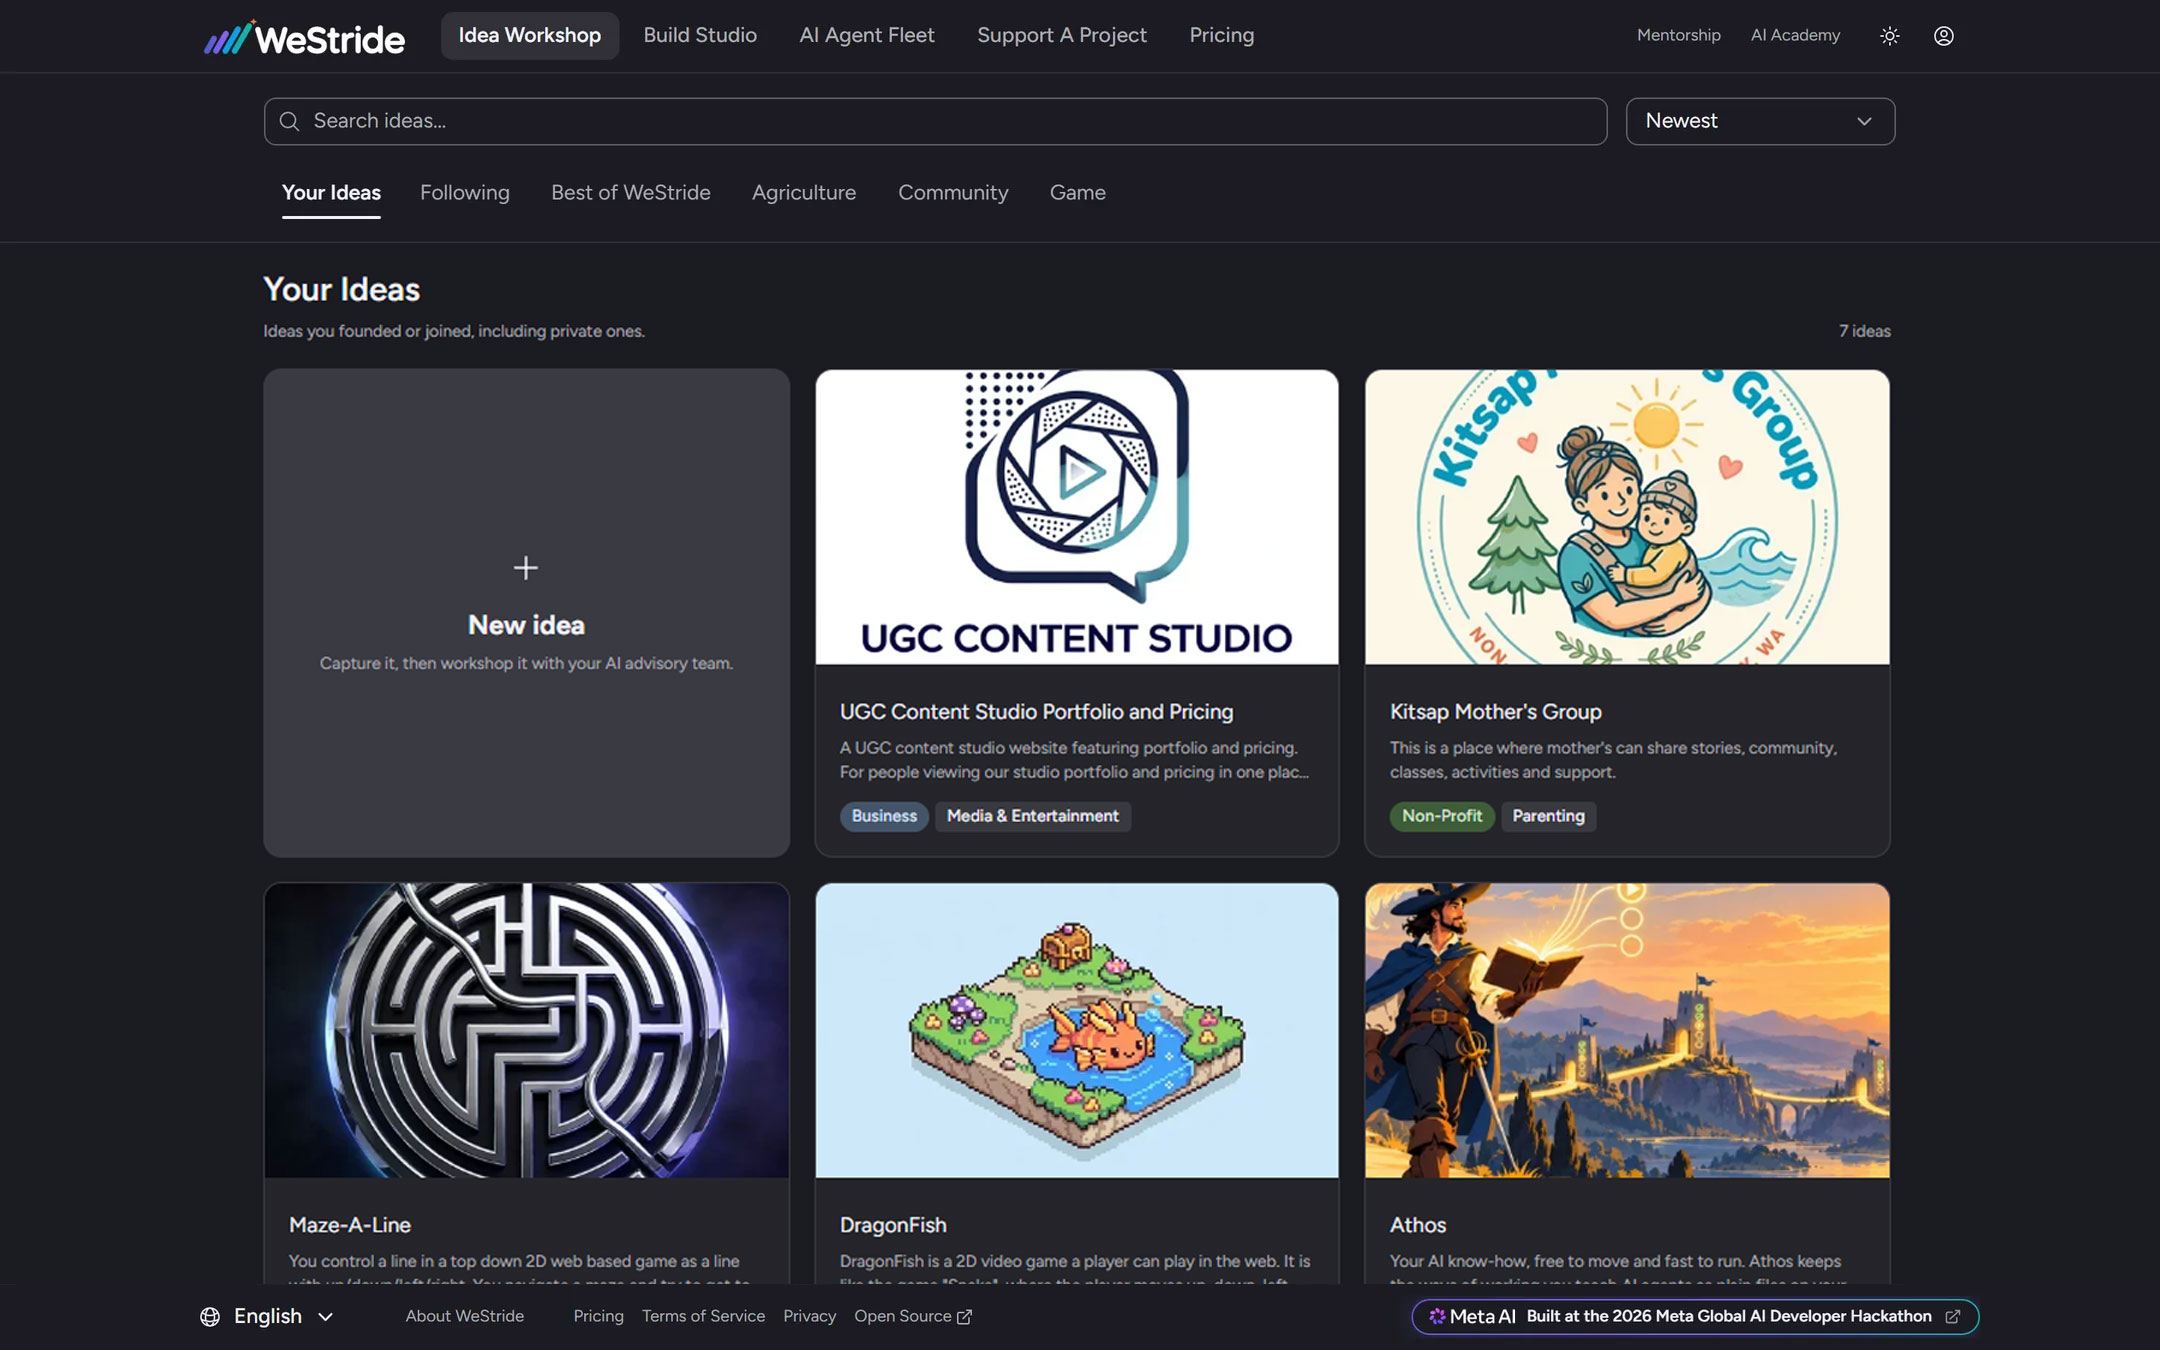
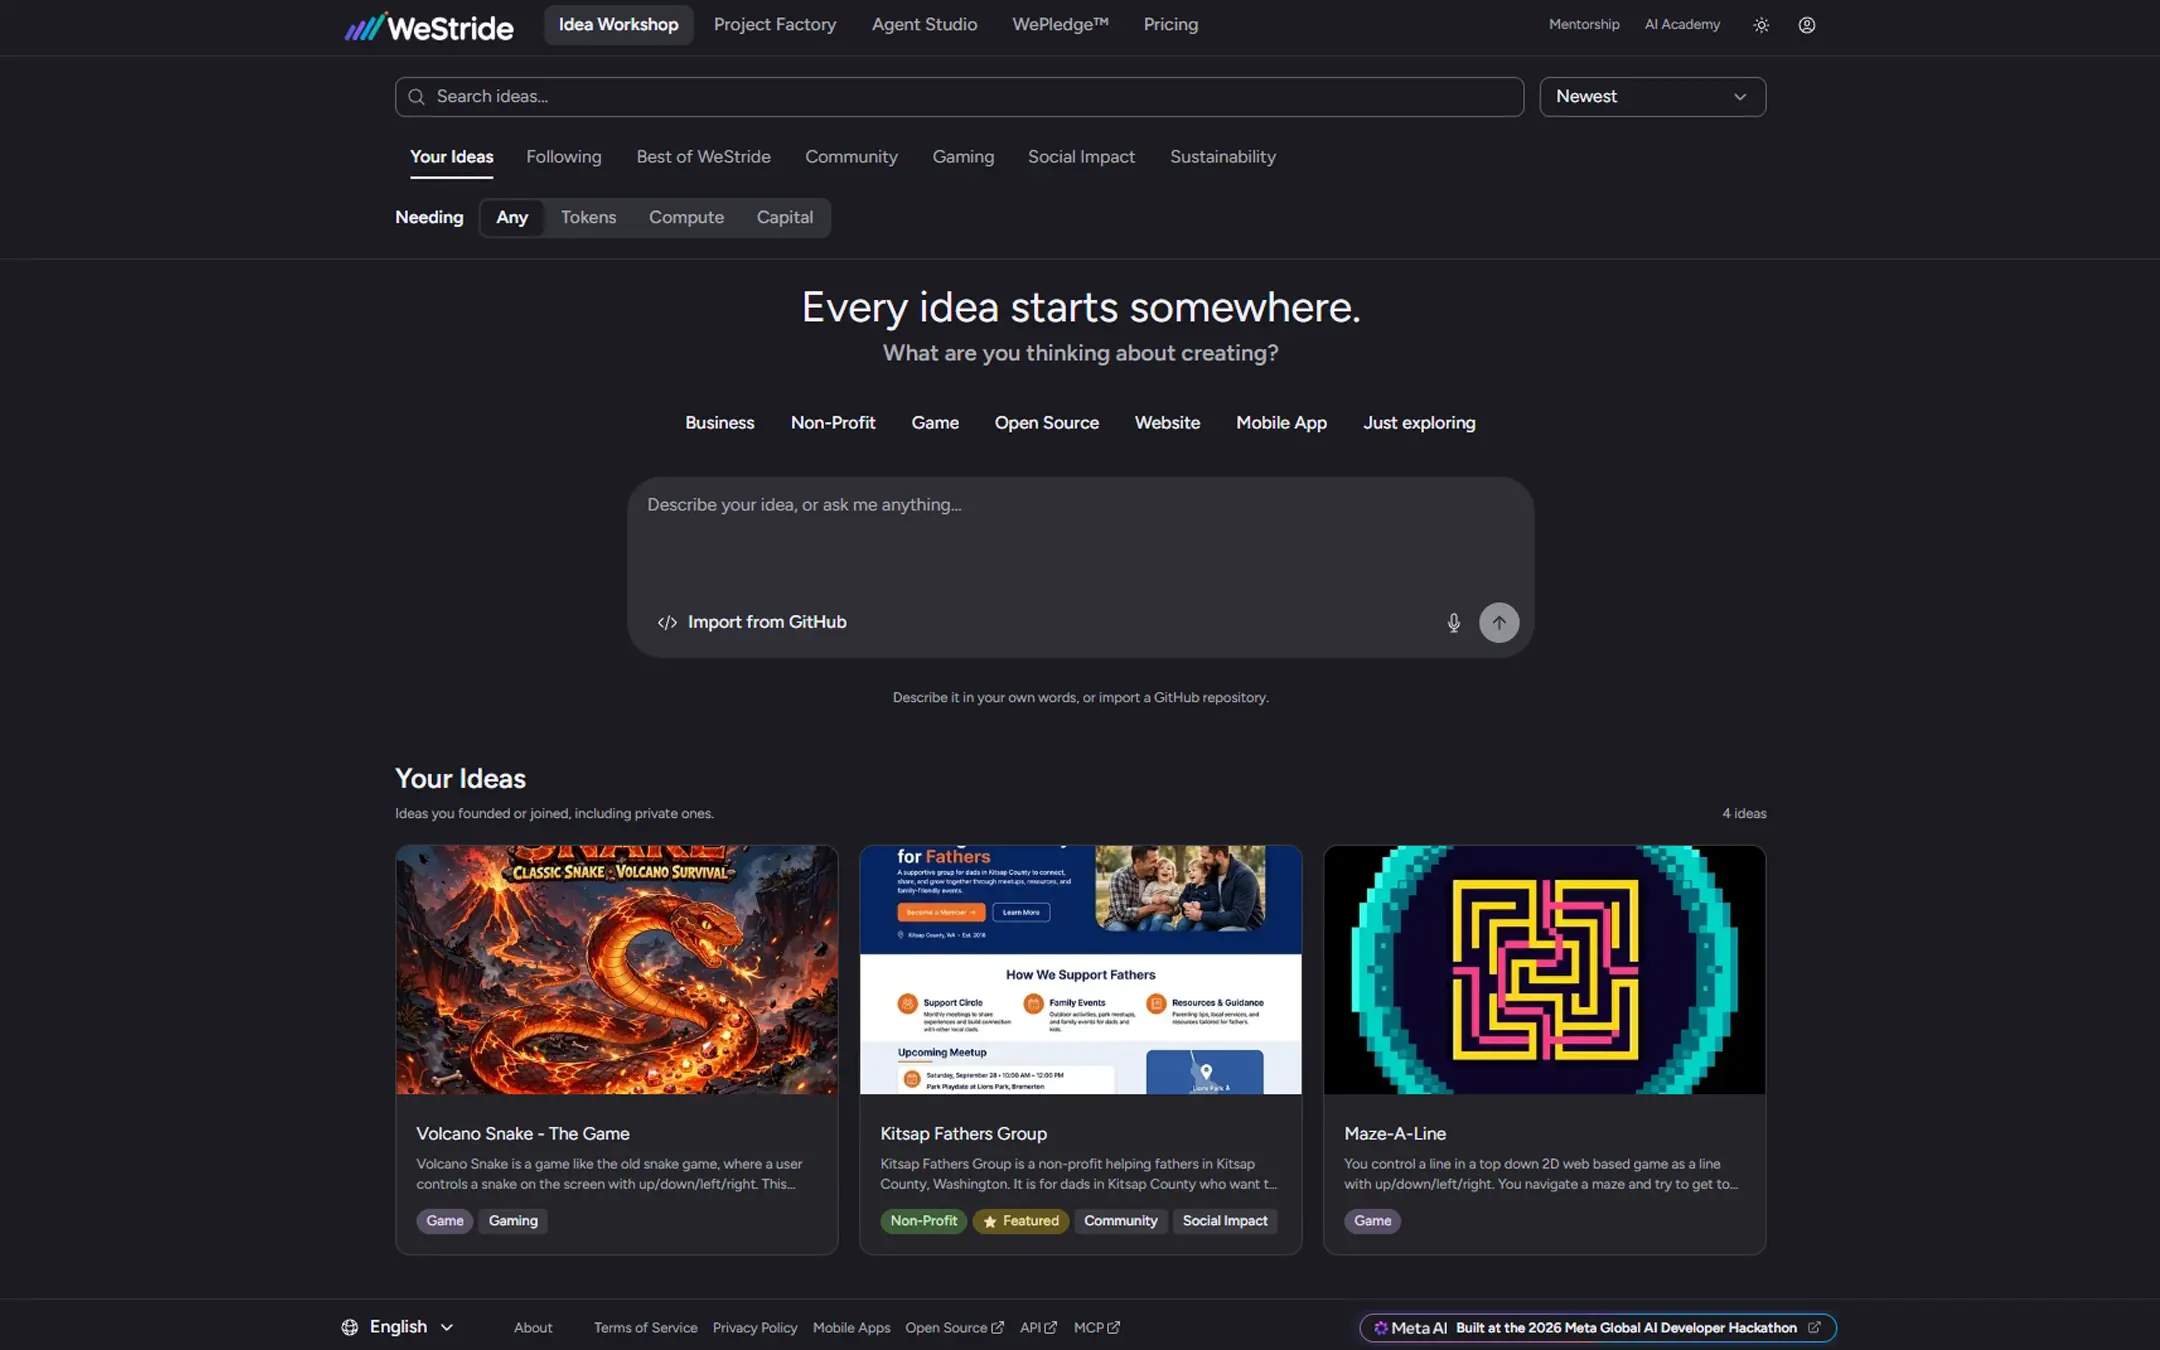
Hide the judge button if user logged in.

diff --git a/apps/web/app/(main)/app-frame.tsx b/apps/web/app/(main)/app-frame.tsx
@@ -1,6 +1,6 @@
 "use client";
 
-import { Show } from "@clerk/nextjs";
+import { Show, useAuth } from "@clerk/nextjs";
 import Image from "next/image";
 import { usePathname } from "next/navigation";
 import { AppShell } from "@astryxdesign/core/AppShell";
@@ -18,7 +18,7 @@ import {
 } from "@astryxdesign/core/TopNav";
 import { TrophyIcon, UserCircleIcon } from "@heroicons/react/24/outline";
 import { signInPath } from "@/lib/auth-paths";
-import { isJudgeAccessShown, judgeAccessPath } from "@/lib/judge-access";
+import { isJudgeNavVisible, judgeAccessPath } from "@/lib/judge-access";
 import { ThemeToggle } from "../theme-toggle";
 import { SITE_CONTAINER_WIDTH, SiteFooter } from "../site-footer";
 
@@ -91,13 +91,30 @@ const JUDGE_LABEL = "Hackathon Judge Access";
 
 /**
  * Temporary entry for hackathon judges, present only while
- * NEXT_PUBLIC_HACKATHON_JUDGE_ACCESS is set. It is the one primary button in
- * the bar so it reads as the special thing it is. The phone bar gets the icon
- * alone; the drawer gets a plain item with the studios.
+ * NEXT_PUBLIC_HACKATHON_JUDGE_ACCESS is set. Signed-out visitors see it. A
+ * signed-in visitor sees it only when they are the shared judge account.
+ * It is the one primary button in the bar so it reads as the special thing
+ * it is. The phone bar gets the icon alone; the drawer gets a plain item
+ * with the studios.
  */
-function JudgeNav({ slot, pathname }: { slot: "start" | "end"; pathname: string }) {
+function JudgeNav({
+  slot,
+  pathname,
+  judgeUserId,
+}: {
+  slot: "start" | "end";
+  pathname: string;
+  judgeUserId: string | null;
+}) {
+  const auth = useAuth();
   const renderMode = useTopNavRenderMode();
-  if (!isJudgeAccessShown()) {
+  if (
+    !isJudgeNavVisible({
+      authLoaded: auth.isLoaded,
+      userId: auth.userId,
+      judgeUserId,
+    })
+  ) {
     return null;
   }
   const isDrawer = renderMode === "drawer";
@@ -199,7 +216,13 @@ function ProfileLink() {
   );
 }
 
-export function AppFrame({ children }: { children: React.ReactNode }) {
+export function AppFrame({
+  children,
+  judgeUserId,
+}: {
+  children: React.ReactNode;
+  judgeUserId: string | null;
+}) {
   const pathname = usePathname();
 
   return (
@@ -226,13 +249,13 @@ export function AppFrame({ children }: { children: React.ReactNode }) {
                 />
               ))}
               <SecondaryNav slot="start" pathname={pathname} />
-              <JudgeNav slot="start" pathname={pathname} />
+              <JudgeNav slot="start" pathname={pathname} judgeUserId={judgeUserId} />
             </>
           }
           endContent={
             <>
               <SecondaryNav slot="end" pathname={pathname} />
-              <JudgeNav slot="end" pathname={pathname} />
+              <JudgeNav slot="end" pathname={pathname} judgeUserId={judgeUserId} />
               <Show when="signed-out">
                 <Button label="Sign In" variant="secondary" href={signInPath} />
               </Show>

diff --git a/apps/web/tests/judge-access.test.ts b/apps/web/tests/judge-access.test.ts
@@ -1,0 +1,71 @@
+import { test } from "node:test";
+import assert from "node:assert/strict";
+import { isJudgeNavVisible } from "../lib/judge-access";
+
+const FLAG = "NEXT_PUBLIC_HACKATHON_JUDGE_ACCESS";
+const JUDGE_ID = "user_judge";
+
+function withFlag(value: string | undefined, run: () => void) {
+  const previous = process.env[FLAG];
+  if (value === undefined) delete process.env[FLAG];
+  else process.env[FLAG] = value;
+  try {
+    run();
+  } finally {
+    if (previous === undefined) delete process.env[FLAG];
+    else process.env[FLAG] = previous;
+  }
+}
+
+test("judge nav stays hidden until auth has loaded", () => {
+  withFlag("1", () => {
+    assert.equal(
+      isJudgeNavVisible({ authLoaded: false, userId: undefined, judgeUserId: JUDGE_ID }),
+      false,
+    );
+    assert.equal(
+      isJudgeNavVisible({ authLoaded: false, userId: "user_member", judgeUserId: JUDGE_ID }),
+      false,
+    );
+  });
+});
+
+test("signed-out visitors see the judge nav when the feature is on", () => {
+  withFlag("1", () => {
+    assert.equal(
+      isJudgeNavVisible({ authLoaded: true, userId: null, judgeUserId: JUDGE_ID }),
+      true,
+    );
+  });
+});
+
+test("a signed-in member who is not the judge does not see the judge nav", () => {
+  withFlag("1", () => {
+    assert.equal(
+      isJudgeNavVisible({ authLoaded: true, userId: "user_member", judgeUserId: JUDGE_ID }),
+      false,
+    );
+  });
+});
+
+test("the shared judge account still sees the judge nav", () => {
+  withFlag("1", () => {
+    assert.equal(
+      isJudgeNavVisible({ authLoaded: true, userId: JUDGE_ID, judgeUserId: JUDGE_ID }),
+      true,
+    );
+  });
+});
+
+test("the judge nav is absent when the feature is off, including for the judge", () => {
+  withFlag(undefined, () => {
+    assert.equal(
+      isJudgeNavVisible({ authLoaded: true, userId: null, judgeUserId: JUDGE_ID }),
+      false,
+    );
+    assert.equal(
+      isJudgeNavVisible({ authLoaded: true, userId: JUDGE_ID, judgeUserId: JUDGE_ID }),
+      false,
+    );
+  });
+});

diff --git a/apps/web/lib/judge-access.ts b/apps/web/lib/judge-access.ts
@@ -4,6 +4,9 @@
  * the live site without signing up. Switched on by
  * NEXT_PUBLIC_HACKATHON_JUDGE_ACCESS="1" (public, so the nav can read it) and
  * pointed at a Clerk user by HACKATHON_JUDGE_CLERK_USER_ID (server only).
+ * The main layout passes that id into the nav, which compares it with the
+ * signed-in Clerk user. The id is not a credential; sign-in tokens are
+ * minted only on the server.
  */
 
 export const judgeAccessPath = "/judge";
@@ -11,9 +14,28 @@ export const judgeAccessPath = "/judge";
 /** Where a judge lands once signed in. */
 export const judgeHomePath = "/build";
 
-/** Readable on the client: whether the nav shows the judge entry at all. */
+/** Readable on the client: whether hackathon judge access is switched on. */
 export function isJudgeAccessShown(): boolean {
   return process.env.NEXT_PUBLIC_HACKATHON_JUDGE_ACCESS === "1";
+}
+
+/**
+ * The nav entry is for visitors who are not signed in, and for the shared
+ * judge account. Any other signed-in member does not see it. It stays hidden
+ * until Clerk has resolved auth, so a signed-in member never flashes the button.
+ */
+export function isJudgeNavVisible({
+  authLoaded,
+  userId,
+  judgeUserId,
+}: {
+  authLoaded: boolean;
+  userId: string | null | undefined;
+  judgeUserId: string | null;
+}): boolean {
+  if (!isJudgeAccessShown() || !authLoaded) return false;
+  if (userId == null) return true;
+  return judgeUserId != null && userId === judgeUserId;
 }
 
 /** Server only: the Clerk user judges sign in as, when the feature is live. */

diff --git a/apps/web/app/(main)/layout.tsx b/apps/web/app/(main)/layout.tsx
@@ -1,3 +1,4 @@
+import { judgeClerkUserId } from "@/lib/judge-access";
 import { AppFrame } from "./app-frame";
 
 export default function MainLayout({
@@ -5,5 +6,5 @@ export default function MainLayout({
 }: Readonly<{
   children: React.ReactNode;
 }>) {
-  return <AppFrame>{children}</AppFrame>;
+  return <AppFrame judgeUserId={judgeClerkUserId()}>{children}</AppFrame>;
 }
